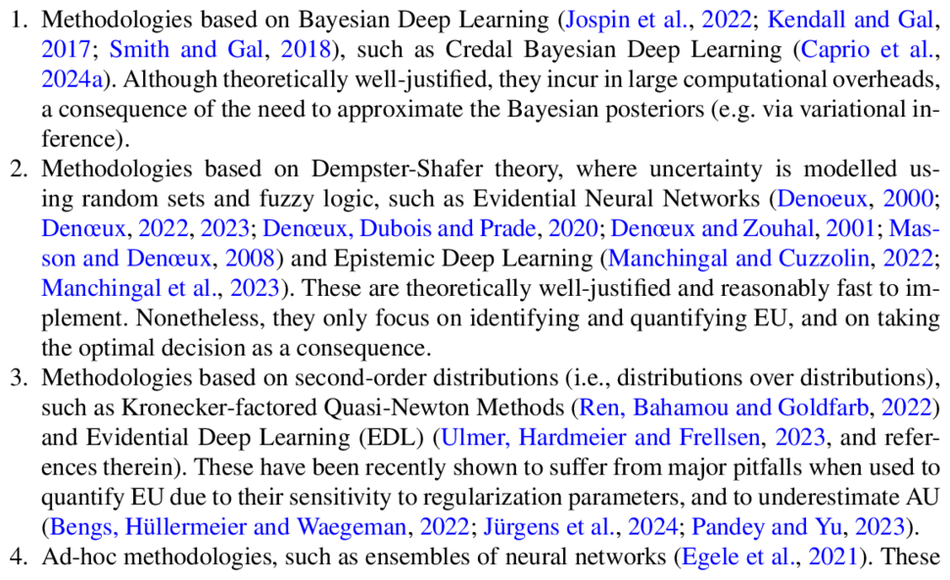
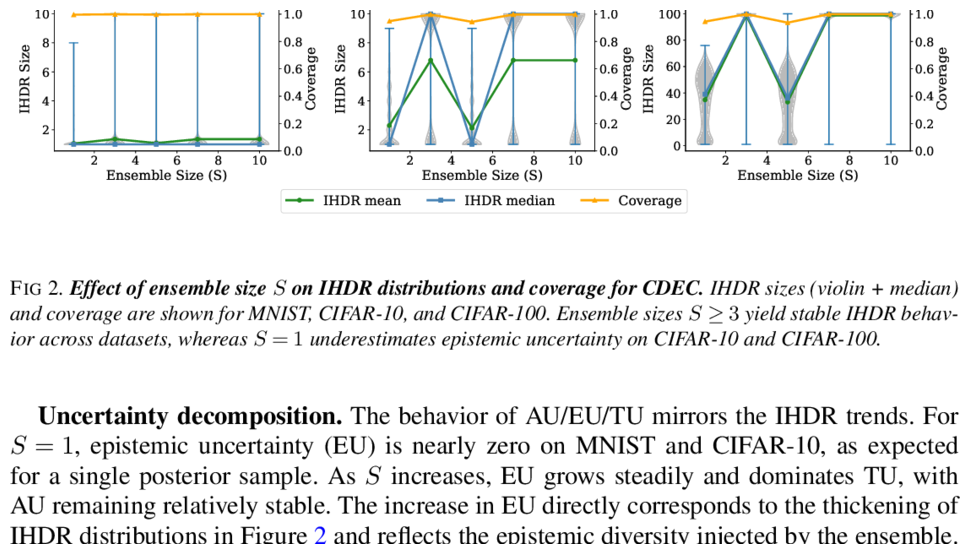
Figures for 14 of 15 papers, conference names in event titles
- Credal and Interval Deep Evidential Classifications and the PhD thesis now
  show figures, found by scanning the full documents for the most
  colour-dense band
- Conference events now name the conference in the title (ICLR 2025, NeurIPS
  2024, AISTATS 2026, the consortium meetings, OxML, the Bristol summer
  school)
- Remove a stray em dash from the events data

diff --git a/assets/events.js b/assets/events.js
@@ -82,7 +82,7 @@ window.EVENTS = [
         photos: ["01.jpg", "02.jpg", "03.jpg", "04.jpg", "05.jpg", "06.jpg", "07.jpg", "08.jpg", "09.jpg"]
     },
     {
-        title: "AISTATS 2026",
+        title: "AISTATS 2026, Mai Khao",
         role: "Attendee",
         kind: "conference",
         venue: "AISTATS 2026",
@@ -155,8 +155,8 @@ window.EVENTS = [
         photos: ["01.jpg", "02.jpg", "03.jpg", "04.jpg", "05.jpg", "06.jpg", "07.jpg", "08.jpg"]
     },
     {
-        title: "Random-Set Neural Networks",
-        subtitle: "Poster presentation",
+        title: "ICLR 2025, Singapore",
+        subtitle: "Presented Random-Set Neural Networks",
         role: "Author",
         kind: "conference",
         venue: "ICLR 2025",
@@ -177,7 +177,7 @@ window.EVENTS = [
         photos: []
     },
     {
-        title: "Epistemic AI consortium meeting",
+        title: "Epistemic AI consortium meeting, KU Leuven",
         role: "Consortium member",
         kind: "conference",
         venue: "KU Leuven",
@@ -187,8 +187,8 @@ window.EVENTS = [
         photos: ["01.jpg", "02.jpg", "03.jpg", "04.jpg", "05.jpg"]
     },
     {
-        title: "Credal Deep Ensembles for Uncertainty Quantification",
-        subtitle: "Poster presentation",
+        title: "NeurIPS 2024, Vancouver",
+        subtitle: "Credal Deep Ensembles for Uncertainty Quantification",
         role: "Co-author",
         kind: "conference",
         venue: "NeurIPS 2024",
@@ -199,7 +199,7 @@ window.EVENTS = [
         photos: ["01.jpg", "02.jpg", "03.jpg", "04.jpg", "05.jpg"]
     },
     {
-        title: "Epistemic AI consortium meeting",
+        title: "Epistemic AI consortium meeting, TU Delft",
         role: "Consortium member",
         kind: "conference",
         venue: "TU Delft",
@@ -250,7 +250,7 @@ window.EVENTS = [
         photos: []
     },
     {
-        title: "10th Summer School on Imprecise Probabilities",
+        title: "10th Summer School on Imprecise Probabilities, Bristol",
         role: "Participant",
         kind: "conference",
         venue: "University of Bristol",

diff --git a/assets/papers.js b/assets/papers.js
@@ -67,6 +67,7 @@ window.PAPERS = [
         authors: ["Michele Caprio", "*Shireen Kudukkil Manchingal", "Fabio Cuzzolin"],
         venue: "arXiv preprint, 2025",
         tag: "arXiv",
+        fig: "assets/img/papers/credal-interval.png",
         links: { arXiv: "https://arxiv.org/abs/2512.05526" }
     },
     {
@@ -75,6 +76,7 @@ window.PAPERS = [
         authors: ["*Shireen Kudukkil Manchingal"],
         venue: "PhD thesis, Oxford Brookes University, 2025",
         tag: "Thesis",
+        fig: "assets/img/papers/thesis.png",
         links: { arXiv: "https://arxiv.org/abs/2510.22261" }
     },
     {
